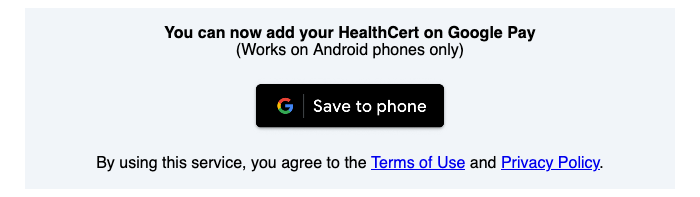
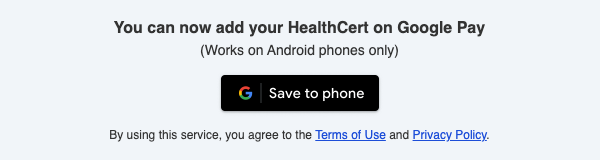
feat: update email templates, added light and dark mode. Update and remove the desktop QR media query in README.md (#2)

Changed region(s): [[0.18, 0.125, 0.81, 0.375], [0.36, 0.4062, 0.66, 0.7188], [0.12, 0.7812, 0.87, 0.9062]]

diff --git a/gpay-covid-card.html b/gpay-covid-card.html
@@ -1,28 +1,85 @@
+<h3 style="text-align: center; font-family: sans-serif">Light mode</h3>
 <table
   style="
     width: 100%;
-    max-width: 650px;
+    max-width: 600px;
     margin: auto;
     border-spacing: 1rem;
     text-align: center;
     font-family: sans-serif;
+    color: #333333;
     background: #f1f5f9;
   "
 >
   <tr>
-    <td><b>You can now add your HealthCert on Google Pay</b><br />(Works on Android phones only)</td>
-  </tr>
-  <tr>
-    <td>
-      <a href="https://example.com"><img style="max-width: 200px" src="https://i.imgur.com/vnGVVTh.png" /></a>
+    <td align="center">
+      <p style="margin: 0; font-size: 16px; line-height: 1.5; font-weight: 600">
+        You can now add your HealthCert on Google Pay
+      </p>
+      <p style="margin: 0; font-size: 14px; line-height: 1.5">(Works on Android phones only)</p>
+      <a
+        href=""
+        alt="Save to phone"
+        class="no-underline my-8 inline-block"
+        style="display: inline-block; margin-top: 8px; margin-bottom: 8px; text-decoration: none"
+      >
+        <img
+          src="https://www.notarise.gov.sg/images/gpay-save-to-phone.png"
+          alt="Gpay button"
+          width="168"
+          height="50"
+        />
+      </a>
+      <p style="margin: 0; font-size: 12px; line-height: 16px">
+        By using this service, you agree to the
+        <a target="_blank" style="color: #1d4ed8" href="https://www.notarise.gov.sg/terms-of-use">Terms of Use</a>
+        and
+        <a target="_blank" style="color: #1d4ed8" href="https://www.notarise.gov.sg/privacy-policy">Privacy Policy</a>.
+      </p>
     </td>
   </tr>
+</table>
+
+<hr style="margin: 60px" />
+<h3 style="text-align: center; font-family: sans-serif">Dark mode</h3>
+
+<table
+  style="
+    width: 100%;
+    max-width: 600px;
+    margin: auto;
+    border-spacing: 1rem;
+    text-align: center;
+    font-family: sans-serif;
+    color: #ffffff;
+    background: #333333;
+  "
+>
   <tr>
-    <td>
-      By using this service, you agree to the
-      <a href="https://www.notarise.gov.sg/terms-of-use">Terms of Use</a>
-      and
-      <a href="https://www.notarise.gov.sg/privacy-policy">Privacy Policy</a>.
+    <td align="center">
+      <p style="margin: 0; font-size: 16px; line-height: 1.5; font-weight: 600">
+        You can now add your HealthCert on Google Pay
+      </p>
+      <p style="margin: 0; font-size: 14px; line-height: 1.5">(Works on Android phones only)</p>
+      <a
+        href=""
+        alt="Save to phone"
+        class="no-underline my-8 inline-block"
+        style="display: inline-block; margin-top: 8px; margin-bottom: 8px; text-decoration: none"
+      >
+        <img
+          src="https://www.notarise.gov.sg/images/gpay-save-to-phone-dark.png"
+          alt="Gpay button"
+          width="168"
+          height="50"
+        />
+      </a>
+      <p style="margin: 0; font-size: 12px; line-height: 16px">
+        By using this service, you agree to the
+        <a target="_blank" style="color: #93c5fd" href="https://www.notarise.gov.sg/terms-of-use">Terms of Use</a>
+        and
+        <a target="_blank" style="color: #93c5fd" href="https://www.notarise.gov.sg/privacy-policy">Privacy Policy</a>.
+      </p>
     </td>
   </tr>
 </table>

diff --git a/view-certificate.html b/view-certificate.html
@@ -1,36 +1,89 @@
+<style>
+  body {
+    background: #eee;
+  }
+</style>
+
+<h3 style="text-align: center; font-family: sans-serif">Light mode</h3>
 <table
   style="
     width: 100%;
-    max-width: 650px;
+    max-width: 600px;
     margin: auto;
-    border-spacing: 1rem;
+    padding: 16px;
     text-align: center;
+    color: #333333;
     font-family: sans-serif;
-    background: #f1f5f9;
+    background: #ffffff;
   "
 >
   <tr>
     <td>
       <a
-        href="http://www.verify.gov.sg"
+        href="http://www.verify.com"
         target="_blank"
         style="
           display: inline-block;
+          padding-top: 12px;
+          padding-bottom: 12px;
+          padding-left: 48px;
+          padding-right: 48px;
+          background-color: #4338ca;
           color: #ffffff;
-          background-color: #4c51bf;
-          border-radius: 5px;
-          cursor: pointer;
+          font-size: 18px;
+          line-height: 1;
+          font-weight: 700;
           text-decoration: none;
-          font-size: larger;
-          padding: 10px 25px;
+          border-radius: 4px;
         "
         >View certificate</a
       >
+      <p style="font-size: 14px; line-height: 16px">
+        You will be able to print certificate or save as a PDF file there.
+      </p>
     </td>
   </tr>
+</table>
+
+<hr style="margin: 60px" />
+<h3 style="text-align: center; font-family: sans-serif">Dark mode</h3>
+
+<table
+  style="
+    width: 100%;
+    max-width: 600px;
+    margin: auto;
+    padding: 16px;
+    text-align: center;
+    color: #ffffff;
+    font-family: sans-serif;
+    background: #000000;
+  "
+>
   <tr>
     <td>
-      <p>You will be able to print certificate or save as a PDF file there.</p>
+      <a
+        href="http://www.verify.com"
+        target="_blank"
+        style="
+          display: inline-block;
+          padding-top: 12px;
+          padding-bottom: 12px;
+          padding-left: 48px;
+          padding-right: 48px;
+          background-color: #4338ca;
+          color: #ffffff;
+          font-size: 18px;
+          line-height: 1;
+          font-weight: 700;
+          text-decoration: none;
+          border-radius: 4px;
+        "
+        >View certificate</a
+      >
+      <p style="font-size: 14px; line-height: 16px">
+        You will be able to print certificate or save as a PDF file there.
+      </p>
     </td>
   </tr>
 </table>

diff --git a/README.md b/README.md
@@ -21,6 +21,7 @@ Read more: <https://mailtrap.io/blog/embedding-images-in-html-email-have-the-rul
 ## Respective Sections
 
 For each section of the email, please refer to the respective HTML files:
+<br/><br/>
 
 ### View Certificate
 
@@ -29,18 +30,16 @@ For each section of the email, please refer to the respective HTML files:
 > **Reminder**: Update the `href` link according to the payload returned by the `api-notarise-healthcerts` endpoint.
 
 File: [view-certificate.html](view-certificate.html)
+<br/><br/>
 
 ### Pre-Departure Test QR Codes
 
-| Desktop                                                          | Mobile                                                         |
-| ---------------------------------------------------------------- | -------------------------------------------------------------- |
-| ![PDT QR Codes (Desktop)](/screenshots/pdt-qr-codes-desktop.png) | ![PDT QR Codes (Mobile)](/screenshots/pdt-qr-codes-mobile.png) |
+ ![PDT QR Codes (Mobile)](/screenshots/pdt-qr-codes-mobile.png) 
 
-> **Important**: The online QR section is semantically defined in a reverse column order (when viewed on a large viewport). When viewing in a smaller viewport, the order of the column will be reverted to follow the same order as the offline QR section.
-
-> **Media Query Required**: The table columns in the offline QR section requires a `@media` query for the columns be responsive. Remember to place it in the `<head></head>` of the HTML.
 
 File: [pdt-qr-codes.html](pdt-qr-codes.html)
+
+<br/><br/>
 
 ### Google Pay COVID Card
 
@@ -50,12 +49,11 @@ File: [pdt-qr-codes.html](pdt-qr-codes.html)
 
 File: [gpay-covid-card.html](gpay-covid-card.html)
 
+<br/><br/>
+
 ### Vaccination QR Codes
 
-| Desktop                                                          | Mobile                                                         |
-| ---------------------------------------------------------------- | -------------------------------------------------------------- |
-| ![VAC QR Codes (Desktop)](/screenshots/vac-qr-codes-desktop.png) | ![VAC QR Codes (Mobile)](/screenshots/vac-qr-codes-mobile.png) |
+![VAC QR Codes (Mobile)](/screenshots/vac-qr-codes-mobile.png) 
 
-> **Media Query Required**: The table columns in the offline QR section requires a `@media` query for the columns be responsive. Remember to place it in the `<head></head>` of the HTML.
 
 File: [vac-qr-codes.html](vac-qr-codes.html)
